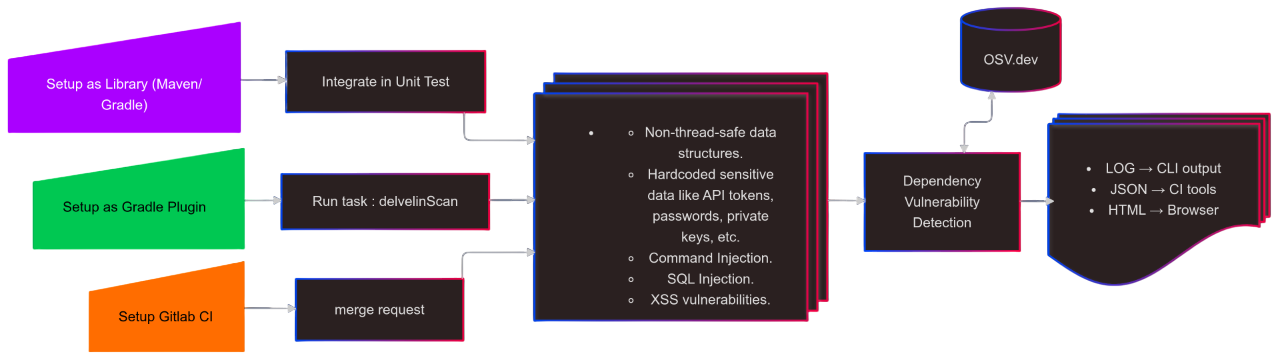
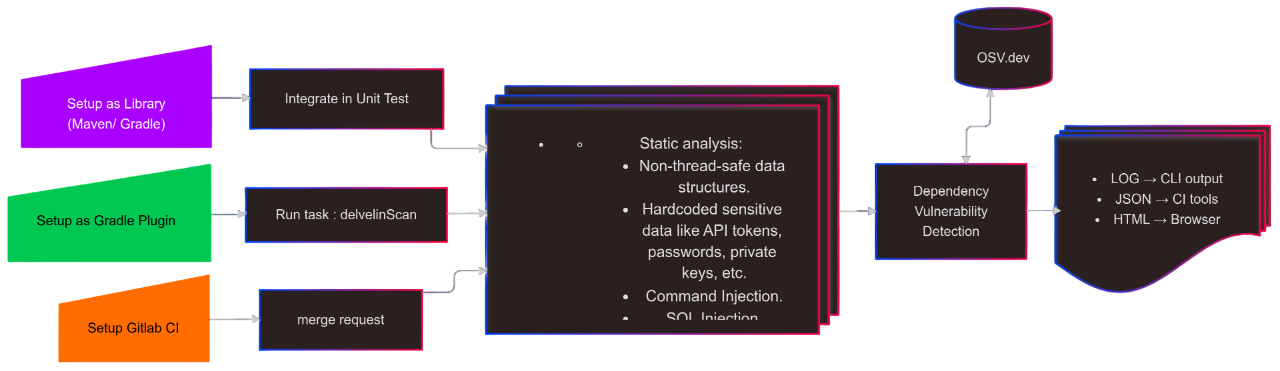
update diagram

diff --git a/index.md b/index.md
@@ -13,7 +13,7 @@ By aligning with ISO/IEC 27001 principles, Delveline helps raise security awaren
 
 ## **How it Works**
 
-![delvelin process](assets/img/delvelin-diagram-transparent-h.png?raw=true)
+![delvelin process](assets/img/delvelin-diagram-transparent.png?raw=true)
 
 ## **Features**
 
